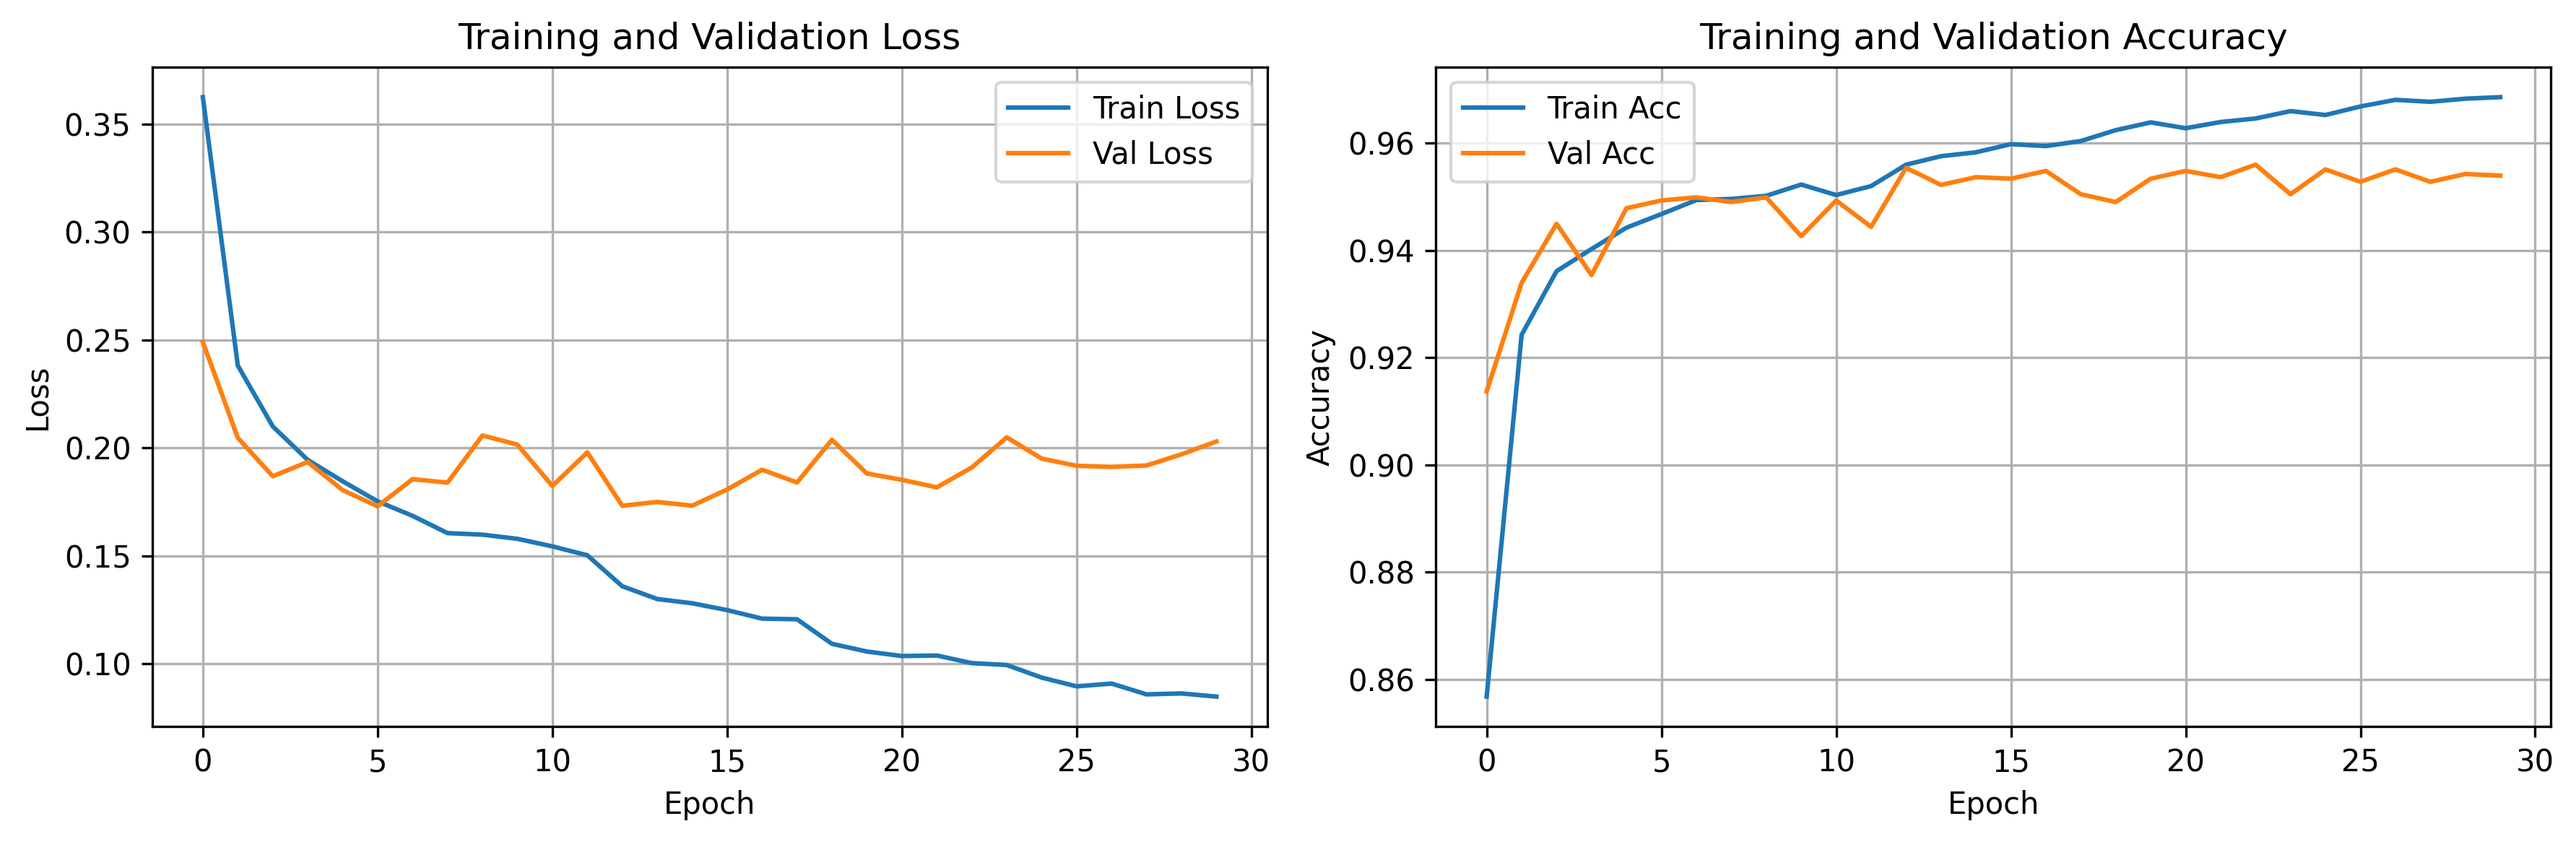
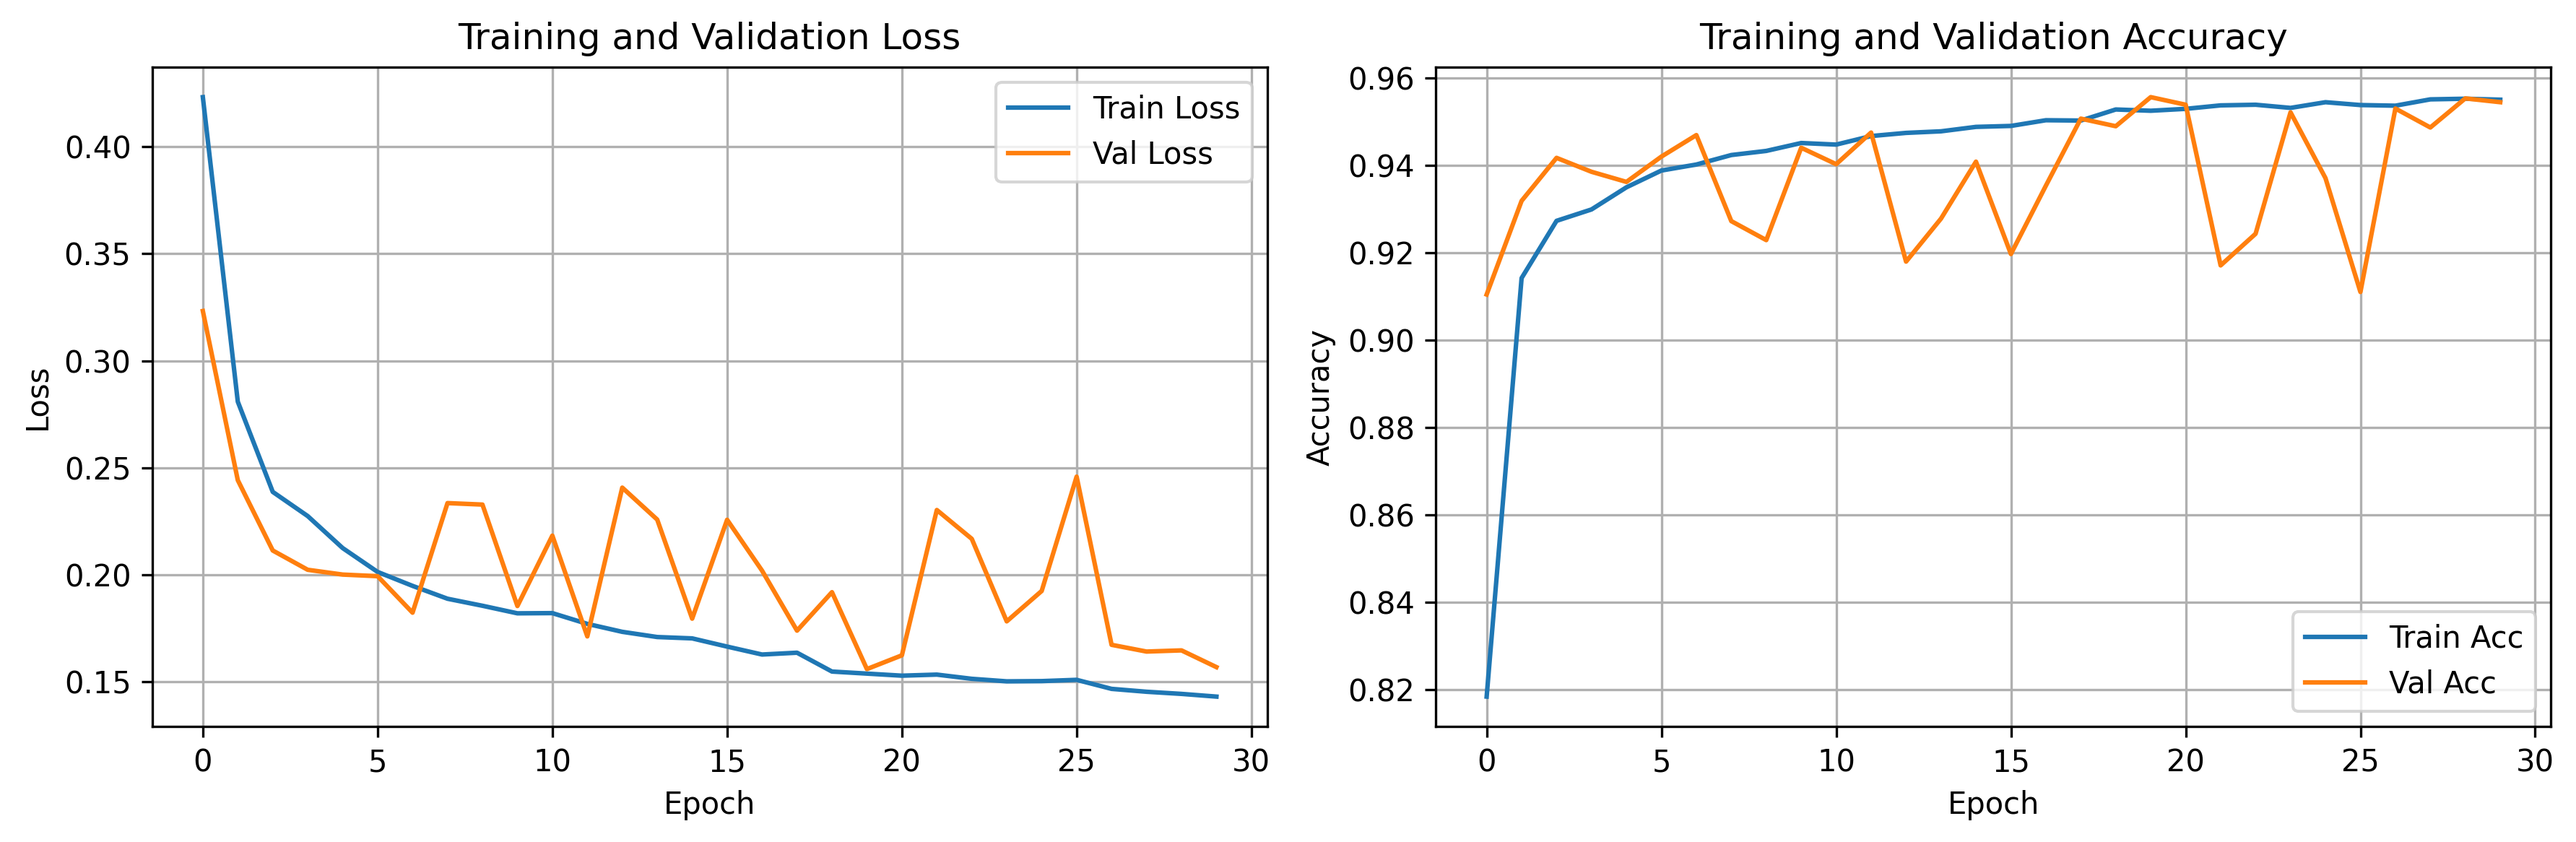
FPGA-optimized model: 10K params, 95.5% accuracy (10x parameter reduction)

diff --git a/Code/model/quantize.py b/Code/model/quantize.py
@@ -1,0 +1,158 @@
+import torch
+import torch.nn as nn
+import numpy as np
+from ecg_cnn import ECG_1DCNN
+from torch.utils.data import DataLoader, TensorDataset
+import copy
+import os
+
+class ModelQuantizer:
+    """Quantize trained model to INT8 for FPGA deployment"""
+    
+    def __init__(self, model, device='cuda'):
+        self.model = model.to(device)
+        self.device = device
+        self.quantized_model = None
+        
+    def post_training_quantization(self):
+        """Apply PyTorch's built-in post-training quantization"""
+        print("Applying post-training quantization...")
+        
+        # Move to CPU for quantization
+        self.model.cpu()
+        self.model.eval()
+        
+        # Quantize
+        self.quantized_model = torch.quantization.quantize_dynamic(
+            self.model,
+            {nn.Linear, nn.Conv1d},  # Layers to quantize
+            dtype=torch.qint8
+        )
+        
+        print("✓ Model quantized to INT8")
+        return self.quantized_model
+    
+    def evaluate_quantized(self, test_loader):
+        """Evaluate quantized model accuracy"""
+        self.quantized_model.eval()
+        correct = 0
+        total = 0
+        
+        with torch.no_grad():
+            for inputs, labels in test_loader:
+                outputs = self.quantized_model(inputs)
+                _, predicted = torch.max(outputs.data, 1)
+                total += labels.size(0)
+                correct += (predicted == labels).sum().item()
+        
+        accuracy = 100 * correct / total
+        return accuracy
+    
+    def compare_models(self, test_loader):
+        """Compare FP32 vs INT8 accuracy"""
+        print("\n" + "="*60)
+        print("MODEL COMPARISON")
+        print("="*60)
+        
+        # FP32 accuracy
+        self.model.eval()
+        self.model.cpu()
+        correct_fp32 = 0
+        total = 0
+        
+        with torch.no_grad():
+            for inputs, labels in test_loader:
+                outputs = self.model(inputs)
+                _, predicted = torch.max(outputs.data, 1)
+                total += labels.size(0)
+                correct_fp32 += (predicted == labels).sum().item()
+        
+        fp32_acc = 100 * correct_fp32 / total
+        
+        # INT8 accuracy
+        int8_acc = self.evaluate_quantized(test_loader)
+        
+        print(f"FP32 Accuracy: {fp32_acc:.2f}%")
+        print(f"INT8 Accuracy: {int8_acc:.2f}%")
+        print(f"Accuracy Drop: {fp32_acc - int8_acc:.2f}%")
+        
+        # Model size comparison
+        fp32_size = self.get_model_size(self.model)
+        int8_size = self.get_model_size(self.quantized_model)
+        
+        print(f"\nFP32 Model Size: {fp32_size:.2f} MB")
+        print(f"INT8 Model Size: {int8_size:.2f} MB")
+        print(f"Size Reduction: {(1 - int8_size/fp32_size)*100:.1f}%")
+        print("="*60)
+        
+        return fp32_acc, int8_acc
+    
+    def get_model_size(self, model):
+        """Calculate model size in MB"""
+        torch.save(model.state_dict(), 'temp_model.pth')
+        size_mb = os.path.getsize('temp_model.pth') / (1024 * 1024)
+        os.remove('temp_model.pth')
+        return size_mb
+    
+    def export_quantized_weights(self, save_dir='results/models'):
+        """Export quantized weights for hardware implementation"""
+        os.makedirs(save_dir, exist_ok=True)
+        
+        print("\nExporting quantized weights...")
+        
+        # Save quantized model
+        torch.save(self.quantized_model.state_dict(), 
+                   os.path.join(save_dir, 'quantized_model.pth'))
+        
+        # Extract and save individual layer weights
+        weights_dict = {}
+        for name, param in self.quantized_model.named_parameters():
+            weights_dict[name] = param.detach().cpu().numpy()
+        
+        np.savez(os.path.join(save_dir, 'quantized_weights.npz'), **weights_dict)
+        
+        print(f"✓ Quantized weights saved to {save_dir}/")
+        
+        return weights_dict
+
+def main():
+    print("="*60)
+    print("MODEL QUANTIZATION")
+    print("="*60)
+    
+    # Load trained model
+    print("\nLoading trained model...")
+    model = ECG_1DCNN()
+    model.load_state_dict(torch.load('results/models/best_model.pth'))
+    print("✓ Model loaded")
+    
+    # Load test data
+    print("\nLoading test data...")
+    segments = np.load('data/processed/segments.npy')
+    labels = np.load('data/processed/labels.npy')
+    
+    # Use last 20% as test set
+    test_size = int(0.2 * len(segments))
+    test_segments = torch.FloatTensor(segments[-test_size:])
+    test_labels = torch.LongTensor(labels[-test_size:])
+    
+    test_dataset = TensorDataset(test_segments, test_labels)
+    test_loader = DataLoader(test_dataset, batch_size=128, shuffle=False)
+    
+    print(f"✓ Test set: {len(test_segments)} samples")
+    
+    # Quantize
+    quantizer = ModelQuantizer(model)
+    quantized_model = quantizer.post_training_quantization()
+    
+    # Compare
+    fp32_acc, int8_acc = quantizer.compare_models(test_loader)
+    
+    # Export
+    weights = quantizer.export_quantized_weights()
+    
+    print("\n✅ Quantization complete!")
+    print(f"Accuracy retained: {int8_acc/fp32_acc*100:.1f}%")
+
+if __name__ == "__main__":
+    main()

diff --git a/Code/model/ecg_cnn.py b/Code/model/ecg_cnn.py
@@ -2,69 +2,61 @@ import torch
 import torch.nn as nn
 import torch.nn.functional as F
 
-class ECG_1DCNN(nn.Module):
+class ECG_1DCNN_Optimized(nn.Module):
     """
-    Lightweight 1D CNN for ECG Arrhythmia Detection
-    Optimized for FPGA implementation
+    FPGA-Optimized 1D CNN for ECG Arrhythmia Detection
+    - Uses stride instead of pooling
+    - Global Average Pooling instead of large FC
+    - Minimal parameters for hardware efficiency
     """
     
     def __init__(self, input_length=180, num_classes=2):
-        super(ECG_1DCNN, self).__init__()
+        super(ECG_1DCNN_Optimized, self).__init__()
         
-        # Conv Block 1: 1 -> 16 channels
-        self.conv1 = nn.Conv1d(1, 16, kernel_size=5, padding=2)
+        # Conv Block 1: stride=2 (replaces conv+pool)
+        self.conv1 = nn.Conv1d(1, 16, kernel_size=5, stride=2, padding=2)
         self.bn1 = nn.BatchNorm1d(16)
-        self.pool1 = nn.MaxPool1d(2, stride=2)
         
-        # Conv Block 2: 16 -> 32 channels
-        self.conv2 = nn.Conv1d(16, 32, kernel_size=5, padding=2)
+        # Conv Block 2: stride=2
+        self.conv2 = nn.Conv1d(16, 32, kernel_size=5, stride=2, padding=2)
         self.bn2 = nn.BatchNorm1d(32)
-        self.pool2 = nn.MaxPool1d(2, stride=2)
         
-        # Conv Block 3: 32 -> 64 channels
-        self.conv3 = nn.Conv1d(32, 64, kernel_size=5, padding=2)
+        # Conv Block 3: stride=2
+        self.conv3 = nn.Conv1d(32, 64, kernel_size=5, stride=2, padding=2)
         self.bn3 = nn.BatchNorm1d(64)
-        self.pool3 = nn.MaxPool1d(2, stride=2)
         
-        # Calculate FC input size: 180 -> 90 -> 45 -> 22
-        fc_input = 64 * 22
+        # Global Average Pooling (replaces flatten + large FC)
+        self.gap = nn.AdaptiveAvgPool1d(1)
         
-        # Fully connected layers
-        self.fc1 = nn.Linear(fc_input, 64)
-        self.dropout = nn.Dropout(0.5)
-        self.fc2 = nn.Linear(64, num_classes)
+        # Small FC layer (only 64→2 weights!)
+        self.fc = nn.Linear(64, num_classes)
         
     def forward(self, x):
-        # Input: (batch, 180) -> (batch, 1, 180)
+        # Input: (batch, 180) → (batch, 1, 180)
         if x.dim() == 2:
             x = x.unsqueeze(1)
         
         # Conv Block 1
-        x = self.conv1(x)
+        x = self.conv1(x)  # (batch, 16, 90)
         x = self.bn1(x)
         x = F.relu(x)
-        x = self.pool1(x)
         
         # Conv Block 2
-        x = self.conv2(x)
+        x = self.conv2(x)  # (batch, 32, 45)
         x = self.bn2(x)
         x = F.relu(x)
-        x = self.pool2(x)
         
         # Conv Block 3
-        x = self.conv3(x)
+        x = self.conv3(x)  # (batch, 64, 23)
         x = self.bn3(x)
         x = F.relu(x)
-        x = self.pool3(x)
         
-        # Flatten
-        x = x.view(x.size(0), -1)
+        # Global Average Pooling
+        x = self.gap(x)  # (batch, 64, 1)
+        x = x.view(x.size(0), -1)  # (batch, 64)
         
-        # FC layers
-        x = self.fc1(x)
-        x = F.relu(x)
-        x = self.dropout(x)
-        x = self.fc2(x)
+        # Classification
+        x = self.fc(x)  # (batch, 2)
         
         return x
     
@@ -72,12 +64,12 @@ class ECG_1DCNN(nn.Module):
         return sum(p.numel() for p in self.parameters() if p.requires_grad)
 
 if __name__ == "__main__":
-    model = ECG_1DCNN()
-    print(f"Model Parameters: {model.count_parameters():,}")
+    model = ECG_1DCNN_Optimized()
+    print(f"Optimized Model Parameters: {model.count_parameters():,}")
     
-    # Test forward pass
+    # Test
     dummy = torch.randn(4, 180)
     output = model(dummy)
     print(f"Input: {dummy.shape}")
     print(f"Output: {output.shape}")
-    print("\n✅ Model architecture verified!")
+    print("\n✅ FPGA-optimized model verified!")

diff --git a/Code/model/train.py b/Code/model/train.py
@@ -8,7 +8,7 @@ import matplotlib.pyplot as plt
 from tqdm import tqdm
 import os
 
-from ecg_cnn import ECG_1DCNN
+from ecg_cnn import ECG_1DCNN_Optimized
 
 class ECGDataset(Dataset):
     def __init__(self, segments, labels):
@@ -168,7 +168,7 @@ if __name__ == "__main__":
     device = 'cuda' if torch.cuda.is_available() else 'cpu'
     print(f"Using device: {device}")
     
-    model = ECG_1DCNN()
+    model = ECG_1DCNN_Optimized()
     print(f"Model parameters: {model.count_parameters():,}")
     
     # Train
